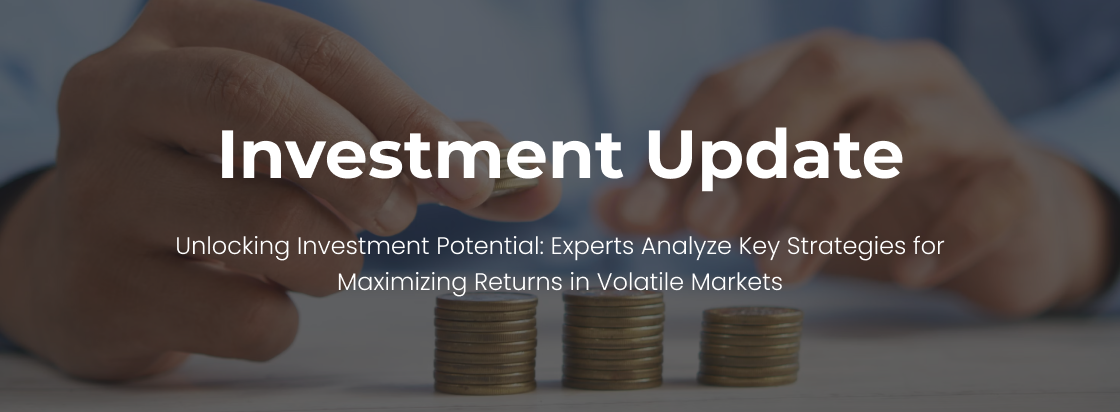
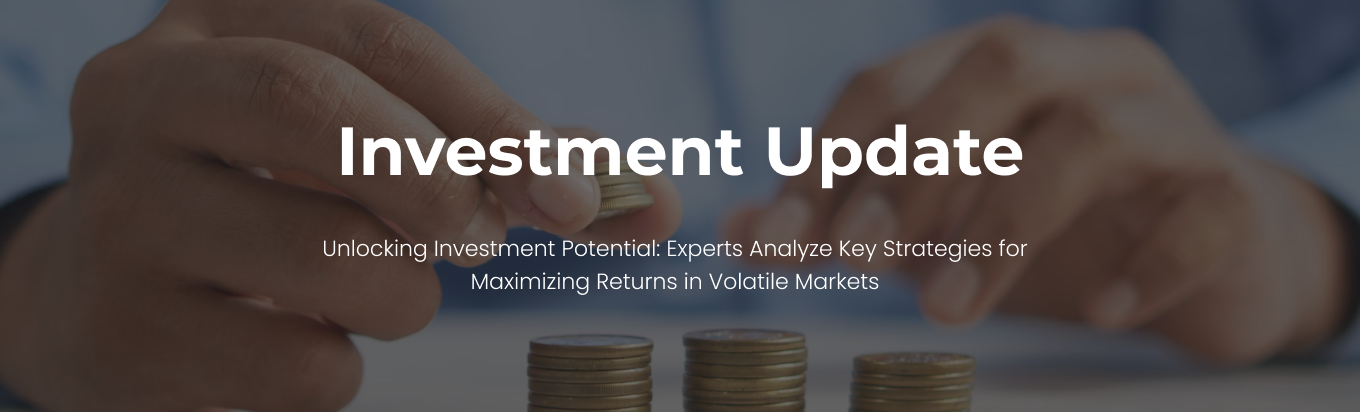
news section linked

diff --git a/frontend/src/Home Page/News/newsImage.js b/frontend/src/Home Page/News/newsImage.js
@@ -6,19 +6,23 @@ import news4 from '../../image-assets/newsbanner4.png'
 const images = [
   {
     imgURL: news1,
-    imgAlt: "img-1"
+    imgAlt: "img-1",
+    link: "https://www.cnbc.com/2024/04/30/treasury-series-i-bond-rate-is-4point28percent-through-october-2024.html"
   },
   {
     imgURL: news2,
-    imgAlt: "img-2"
+    imgAlt: "img-2",
+    link: "https://www.cnbc.com/2024/04/30/online-education-stocks-tank-on-chatgpt-threat.html"
   },
   {
     imgURL: news3,
-    imgAlt: "img-3"
+    imgAlt: "img-3",
+    link: "https://www.investing.com/news/stock-market-news/nvidia-stock-target-raised-at-ubs-ahead-of-earnings-432SI-3406155"
   },
   {
     imgURL: news4,
-    imgAlt: "img-4"
+    imgAlt: "img-4",
+    link: "https://www.cnbc.com/2024/04/30/read-hsbc-ceo-noel-quinns-surprise-resignation-statement.html"
   }
 ];
 

diff --git a/frontend/src/Home Page/News/news.jsx b/frontend/src/Home Page/News/news.jsx
@@ -1,5 +1,7 @@
 import React, { useState, useEffect } from "react";
 import "./news.css";
+import { Link } from "react-router-dom";
+import images from "./newsImage";
 
 function News({children}) {
   const [activeIndex, setActiveIndex] = useState(0);
@@ -55,9 +57,9 @@ function News({children}) {
     <div className="container__slider" onMouseEnter={AutoPlayStop} onMouseLeave={AutoPlayStart}>
       {children.map((item, index) => {
         return (
-          <div className={"slider__item slider__item-active-" + (activeIndex + 1)} key={index}>
+          <Link to={images[index].link} key={index} className={"slider__item slider__item-active-" + (activeIndex + 1)}>
             {item}
-          </div>
+          </Link>
         );
       })}
 

diff --git a/frontend/src/Home Page/News/news.css b/frontend/src/Home Page/News/news.css
@@ -64,7 +64,7 @@
   .slider__item {
     box-sizing: border-box;
     min-width: 100%;
-    height: 300px;
+    height: 350px;
     overflow: hidden;
     object-fit: cover;
     transform: translateX(0);
@@ -102,6 +102,6 @@
   
   .slider__item img {
     width: 100%;
-    height: 300px;
+    height: 350px;
   }
   
